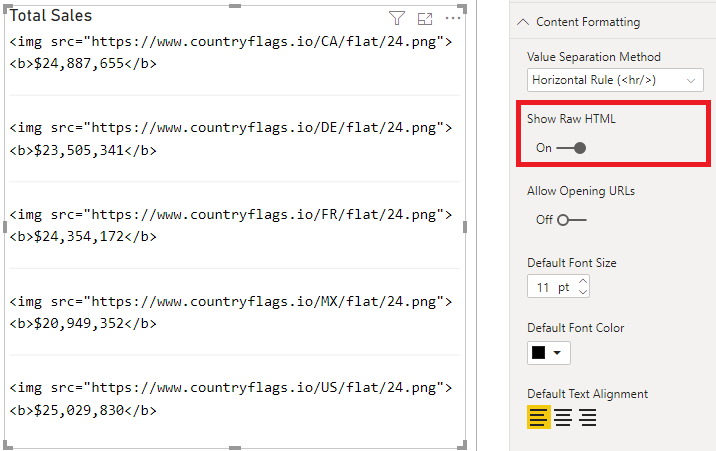
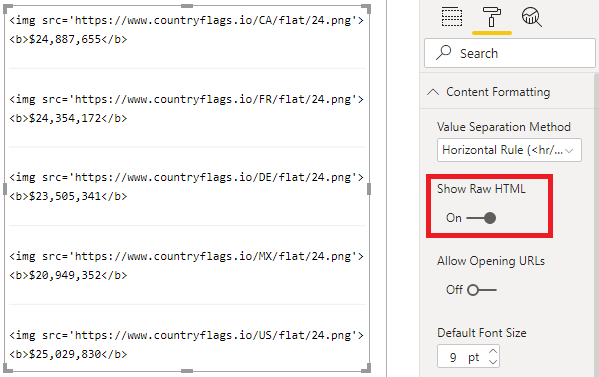
Added multiple field support to the sampling data role, so that users can use multiple values to create uniqueness for measures, plus updated documentation with better DAX and examples.

Changed region(s): [[0.0, 0.0, 0.6611, 1.0], [0.6912, 0.0, 1.0, 1.0], [0.7212, 0.8462, 0.9015, 0.992]]

diff --git a/doc/usage.md b/doc/usage.md
@@ -6,26 +6,30 @@
 ---
 ## Getting Started
 
-To use the visual, you need to either create a column or measure in your data model that contains valid HTML. When this is added to the **HTML Content** field, the visual will attempt to render the supplied HTML in the current row context.
+To use the visual, you need to either create a column or measure in your data model that contains valid HTML. When this is added to the **HTML Content** data role, the visual will attempt to render the supplied HTML in the current row context.
 
-Let's work through this with an example. Consider the following data:
+Let's work through this with an example. Consider the following data - I'm using the [Financial Sample workbook](https://docs.microsoft.com/en-us/power-bi/create-reports/sample-financial-download) data model:
 
 ![html_sample_data.png](./assets/png/html_sample_data.png "Sample data, showing country, two-digit code and a total sales measure.")
 
-The `[Country]` and `[Country Code]` columns are fields from our data model and `[$ Sales]` is a measure that calculates total sales for the current row context.
+The `[Country]` and `[Country Code]` columns are fields from our data model and `[$ Sales]` is a simple `SUM()` measure that calculates total sales for the current row context.
 
 ### Columns
 
 Let's say we want to represent the country with its flag using the [Country Flags API](https://www.countryflags.io/). We can create a calculated column as follows:
 
-```
-Country Flag HTML = "<img src=""https://www.countryflags.io/" & Financials[Country Code] & "/flat/24.png"">"
-```
- > Note that because HTML code can contain double-quotes, we escape them in DAX using `""`
-
+ ```
+Country Flag HTML = "<img src='https://www.countryflags.io/" & Financials[Country Code] & "/flat/24.png'>"
+ ```
 We can now add this to the HTML Display visual's **HTML Content** data role and we'll see a flag for each value of `Financials[Country Code]`, e.g.:
 
 ![html_country_flag_column.png](./assets/png/html_country_flag_column.png "A HTML column that generates a flag from a remote API, rendered in our visual.")
+
+> Note that while conventional HTML code snippets might use double quotes (`"`) for attribute values, these need to be escaped in DAX by using `""` for every occurrence of a double quote character. This can be tricky to keep track of in more advanced use cases.
+>
+> Because single quotes are valid in the W3C HTML specification, I'll be using this format going forward to keep my example DAX code a bit easier to manage. If you do want to use double quotes, the above could also be written as:
+>
+>`Country Flag HTML = "<img src=""https://www.countryflags.io/" & Financials[Country Code] & "/flat/24.png"">"`
 
 ### Measures
 
@@ -43,29 +47,35 @@ Like before, we can add this to the visual's **HTML Content** data role and this
 
 ![html_simple_measure.png](./assets/png/html_simple_measure.png "Using a measure to create another, HTML-based one.")
 
-As the **HTML Content** field renders the output and our measure has no additional context, we just get the total. If we want to split our measure for the distinct `[Country  Code]`, we can add our column to the **Granularity** data role and this will create the necessary context in the visual, e.g.:
+### Providing Additional Row Context
 
-![html_simple_measure_with_context.png](./assets/png/html_simple_measure_with_context.png "Using the Granularity field to give a measure row context within the visual.")
+As the **HTML Content** data role contains the HTML we want to render and our measure has no additional context, we just get the total.
 
-Now, we could re-write the measure to be context-aware, e.g.:
+If we want to split our measure for the distinct `[Country  Code]`, we can add our column to the **Granularity** data role and this will create the necessary context in the visual, e.g.:
+
+![html_simple_measure_with_context.png](./assets/png/html_simple_measure_with_context.png "Using the Granularity data role to give a measure row context within the visual.")
+
+The initial measure we built looks a little ambiguous, so it could be changed to be context-aware if the **Granularity** data role is not present, e.g.:
 
 ```
 <HTML> Sales Summary by Country = 
-    VAR 
-        Sales = FORMAT([$ Sales], "$#,##0")
-    VAR
-        Country = SELECTEDVALUE(Financials[Country Flag HTML])
-    VAR
-        Context = SWITCH(
+    VAR Sales = FORMAT([$ Sales], "$#,##0")
+    VAR CountryFlag = SELECTEDVALUE(Financials[Country Flag HTML])
+    VAR HasGranularity = INT(CountryFlag <> "")
+    VAR Context = SWITCH(
             TRUE(),
-            Country = "", "All:", 
-            Country
+            HasGranularity = 0, "All:", 
+            CountryFlag
         )
     RETURN
         Context & " <b>" & Sales & "</b>"
 ```
 
 ![html_measure_with_context_handling.gif](./assets/gif/html_measure_with_context_handling.gif "Observation of measure context-awareness when a column is added to the Granularity data role.")
+
+Any value that matches the desired grain can be added - in the example above, unique values of `[Country Code]` will match the unique values of `[Country Flag]`, but we could just have easily used `[Country]` also.
+
+You can add multiple fields to **Granularity** to produce the necessary row context if your measure requires a further level of uniquness.
 
 ## Value Separation
 
@@ -81,7 +91,7 @@ The **Show Raw HTML** property can be used to debug your generated HTML output, 
 
 ![html_raw_view.png](./assets/png/html_raw_view.png "Viewing raw generated HTML.")
 
-Note that the **Value Separation Method** can also be used to bettwe distinguide generated HTML for each value.
+Note that the **Value Separation Method** can also be used to better distiguish generated HTML for each value.
 
 ## Handling Hyperlinks to External URLs
 
@@ -89,27 +99,24 @@ Let's say that we want to direct our user to a page about the country when they 
 
 ```
 <HTML> Sales Summary by Country with Hyperlink = 
-    VAR 
-        Sales = FORMAT([$ Sales], "$#,##0")
-    VAR
-        CountryFlag = SELECTEDVALUE(Financials[Country Flag HTML])
-    VAR
-        CountryInformationURL = SELECTEDVALUE(Financials[Country Information URL])
-    VAR
-        CountryContent = SWITCH(
+    VAR Sales = FORMAT([$ Sales], "$#,##0")
+    VAR CountryFlag = SELECTEDVALUE(Financials[Country Flag HTML])
+    VAR CountryInformationURL = SELECTEDVALUE(Financials[Country Information URL])
+    VAR HasGranularity = INT(CountryFlag <> "")
+    VAR CountryContent = SWITCH(
             TRUE(),
-            CountryFlag = "", "All:", 
+            HasGranularity = 0, "All:", 
             CountryFlag
         )
-    VAR
-        Hyperlink = SWITCH(
+    VAR Context = SWITCH(
             TRUE(),
-            CountryContent <> "" && CountryInformationURL <> "",
-                "<a href=""" & CountryInformationURL & """>" & CountryContent & "</a>",
+            // We might have granularity, but we might not have a URL
+            HasGranularity = 1 && CountryInformationURL <> "",
+                "<a href='" & CountryInformationURL & "'>" & CountryContent & "</a>",
             CountryContent
         )
     RETURN
-        Hyperlink & " <b>" & Sales & "</b>"
+        Context & " <b>" & Sales & "</b>"
 ```
 
 This will render the same output as before, and the flag is clickable, but nothing happens 😖
@@ -122,44 +129,167 @@ However, custom visuals can request that Power BI open a URL on their behalf. Th
 
 While this is the raw URL, the user should still exercise caution on navigating to unknown sources.
 
-## Further Examples with Measures
+## Further Examples with Measures and SVG
 
-We could then, for example mix in some SVG that scales according to measures in our current context. This will draw a rectangle under each entry with a width proportional to percentage of total sales:
+We could then, for example mix in some SVG that scales according to measures in our current context. As the measures are getting a bit larger in their scope, I've opted to break up the DAX with comments to make them a bit easier to follow.
 
-```
-<HTML> Sales Summary by Country with Hyperlink and Bars = 
-    VAR Sales = FORMAT([$ Sales], "$#,##0")
-    VAR AllSales = CALCULATE([$ Sales], ALL('Financials'))
-    VAR SalesPercent = DIVIDE(Sales, AllSales)
-    VAR MaxBarWidth = 1000
-    VAR BarHeight = 16
-    VAR BarColour = "#12239E"
-    VAR CountryFlag = SELECTEDVALUE(Financials[Country Flag HTML])
-    VAR CountryInformationURL = SELECTEDVALUE(Financials[Country Information URL])
-    VAR CountryContent = SWITCH(
-            TRUE(),
-            CountryFlag = "", "All:", 
-            CountryFlag
-        )
-    VAR Hyperlink = SWITCH(
-            TRUE(),
-            CountryContent <> "" && CountryInformationURL <> "",
-                "<a href=""" & CountryInformationURL & """>" & CountryContent & "</a>",
-            CountryContent
-        )
-    VAR Bar = "
-            <svg style=""height: " & BarHeight & "px"">
-                <rect width=""" 
-                    & MaxBarWidth * SalesPercent 
-                    & """ height =""" & BarHeight & """ & fill="""
-                    & BarColour & """/>
-            </svg>
-        "
-    RETURN
-        Hyperlink & " <b>" & Sales & "</b><br/>" & Bar
-```
+### Simple Data Bars
+
+This will draw a rectangle under each entry with a width proportional to percentage of the highest selling country:
 
 ![html_measure_data_bars.png](./assets/png/html_measure_data_bars.png "Adding SVG to our visual to show data bars.")
+
+```
+<HTML> Sales Summary by Country - Data Bars = 
+    // Define the measures we need for calculations
+
+        // Formatted sales measure for current context
+            VAR Sales = FORMAT([$ Sales], "$#,##0")
+
+        // Summary of sales by country - makes more sense to have this as a separate measure
+        // in our model, but I've added here so that the complete code is visible to the reader
+            VAR SummaryByCountry = 
+                    SUMMARIZE(
+                        ALLSELECTED(Financials),
+                        Financials[Country],
+                        "Total Sales", [$ Sales]
+                    )
+
+        // Highest country sales, so that we can scale our bars, and resulting percentage
+            VAR MaxSales = MAXX(SummaryByCountry, [Total Sales])
+            VAR SalesBarPercent = DIVIDE(Sales, MaxSales)
+
+        // Resolved measures, as for previous examples
+            VAR CountryFlag = SELECTEDVALUE(Financials[Country Flag HTML])
+            VAR CountryInformationURL = SELECTEDVALUE(Financials[Country Information URL])
+            VAR HasGranularity = INT(CountryFlag <> "")
+    
+    // Attributes that we want to make easier to modify later
+            
+        // Intended width of my visual
+            VAR VisualWidth = 350
+
+        // Max width of data bars, adjusted down to provide some padding
+            VAR MaxBarWidth = VisualWidth * 0.95
+
+        // Bar attributes - we could potentially drive these through measures also
+            VAR BarHeight = 16
+            VAR BarColour = "#12239E"
+
+    // Contextual country value
+        VAR CountryContent = SWITCH(
+                TRUE(),
+                HasGranularity = 0, "All:", 
+                CountryFlag
+            )
+    // Additional formatting of hyperlink, if we have suitable context and a URL
+        VAR Context = SWITCH(
+                TRUE(),
+                // We might have granularity, but we might not have a URL
+                HasGranularity = 1 && CountryInformationURL <> "",
+                    "<a href='" & CountryInformationURL & "'>" & CountryContent & "</a>",
+                CountryContent
+            )
+    // SVG for data bar
+        VAR Bar = "<svg style='height:" & BarHeight & "px; width:" & VisualWidth & "px'>
+                    <rect width='" & (MaxBarWidth * SalesBarPercent)
+                        & "' height='" & BarHeight
+                        & "' fill='" & BarColour & "'/>
+                </svg>"
+                
+    RETURN
+        Context & " <b>" & Sales & "</b><br/>" & Bar
+```
+
+### Sparklines
+
+We could also take [David Eldersveld's excellent sparkline concept](https://community.powerbi.com/t5/Quick-Measures-Gallery/SVG-Sparklines-Line/td-p/486271) and apply the logic behind it to our example:
+
+![html_measure_sparklines.png](./assets/png/html_measure_sparklines.png "Adding SVG to our visual to show sparklines.")
+
+```
+<HTML> Sales Summary by Country - Sparkline = 
+
+    // Define the measures we need for calculations
+
+        // Formatted sales measure for current context
+            VAR Sales = FORMAT([$ Sales], "$#,##0")
+
+        // Our dates
+            VAR XMinDate = MIN('Financials'[Date])
+            VAR XMaxDate = MAX('Financials'[Date])
+            
+        // Obtain overall min and overall max measure values when evaluated for each date
+            VAR YMinValue = MINX(VALUES('Financials'[Date]),CALCULATE([$ Sales]))
+            VAR YMaxValue = MAXX(VALUES('Financials'[Date]),CALCULATE([$ Sales]))
+
+        // Resolved measures, as for previous examples
+            VAR CountryFlag = SELECTEDVALUE(Financials[Country Flag HTML])
+            VAR CountryInformationURL = SELECTEDVALUE(Financials[Country Information URL])
+            VAR HasGranularity = INT(CountryFlag <> "")
+    
+    // Attributes that we want to make easier to modify later
+            
+        // Intended width of my visual
+            VAR VisualWidth = 350
+
+        // Intended dimensions of SVG view box
+            VAR ViewboxWidth = VisualWidth * 0.5
+            VAR ViewboxHeight = 20
+            VAR SparklineScaleFactor = 0.9
+
+        // Sparkline attributes - we could potentially drive these through measures also
+            VAR SparklineHeight = ViewboxHeight * SparklineScaleFactor
+            VAR SparklineWidth = ViewboxWidth * SparklineScaleFactor
+            VAR SparklineStrokeWidth = 2
+            VAR SparklineColour = "#12239E"
+            
+    // Sparkline calculations WRT attributes
+
+        // Build table of X & Y coordinates and fit to viewbox
+            VAR SparklineTable = ADDCOLUMNS(
+                SUMMARIZE(
+                    'Financials',
+                    'Financials'[Date]
+                ),
+                "X", INT(SparklineWidth * DIVIDE('Financials'[Date] - XMinDate, XMaxDate - XMinDate)),
+                "Y", INT(SparklineHeight * DIVIDE([$ Sales] - YMinValue,YMaxValue - YMinValue))
+            )
+
+        // Concatenate X & Y coordinates to build the sparkline
+            VAR Lines = CONCATENATEX(SparklineTable, [X] & "," & SparklineHeight - [Y], " ", [Date])
+
+    // Contextual country value
+        VAR CountryContent = SWITCH(
+                TRUE(),
+                HasGranularity = 0, "All:", 
+                CountryFlag
+            )
+    // Additional formatting of hyperlink, if we have suitable context and a URL
+        VAR Context = SWITCH(
+                TRUE(),
+                // We might have granularity, but we might not have a URL
+                HasGranularity = 1 && CountryInformationURL <> "",
+                    "<a href='" & CountryInformationURL & "'>" & CountryContent & "</a>",
+                CountryContent
+            )
+    // SVG for sparkline
+        VAR Sparkline = "<svg style='height:" & ViewboxHeight & "px; width:" & ViewboxWidth & "px'>
+                    <g transform='translate(" 
+                            // Adjust X/Y for padding
+                                & DIVIDE(ViewboxWidth - SparklineWidth, 2) & ", " 
+                                & DIVIDE(ViewboxHeight - SparklineHeight, 2) & ")'>
+                        <polyline fill='none' stroke='" 
+                            & SparklineColour & "' stroke-width='"
+                            & SparklineStrokeWidth & "' points='" 
+                            & Lines 
+                            & "'/>
+                    </g>
+                </svg>"
+                
+    RETURN
+        Context & " <b>" & Sales & "</b> " & Sparkline & "<br/>"
+```
 
 As you can see, we can start to construct some very rich output based on our data 😀
 
@@ -176,4 +306,4 @@ While the visual will have a good go at rendering the HTML content you supply, i
     * Custom visuals run in a [sandbox](https://www.w3schools.com/tags/att_iframe_sandbox.asp) with the least amount of privilege.
     * Any content hosted inside the visual that needs elevated privileges will likely not work correctly.
     * This sandboxing also removes the domain from any custom visuals, so they can't impersonate powerbi.com.
-    * Therefore, accessing services or embedding content from sites that have <a href ="https://en.wikipedia.org/wiki/Cross-origin_resource_sharing" target="_blank">CORS</a> restrictions will not work inside the visual. These restrictions are set by the destination website
+    * Therefore, accessing services or embedding content from sites that have <a href ="https://en.wikipedia.org/wiki/Cross-origin_resource_sharing" target="_blank">CORS</a> restrictions will not work inside the visual. These restrictions are set by the target server and cannot be overriden from the client (our visual).
